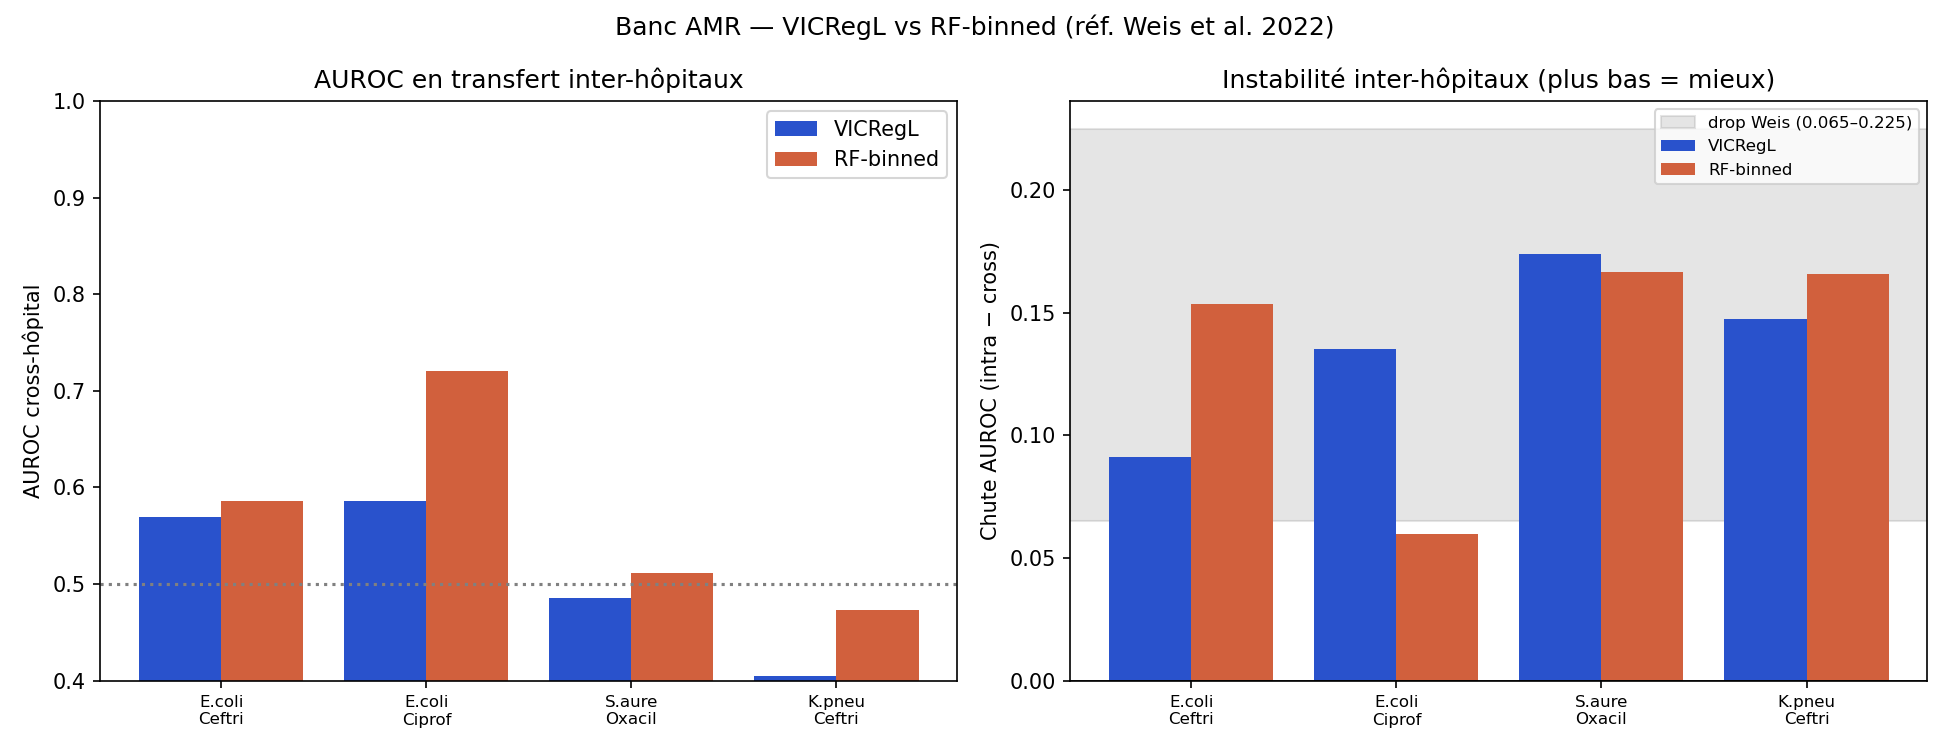
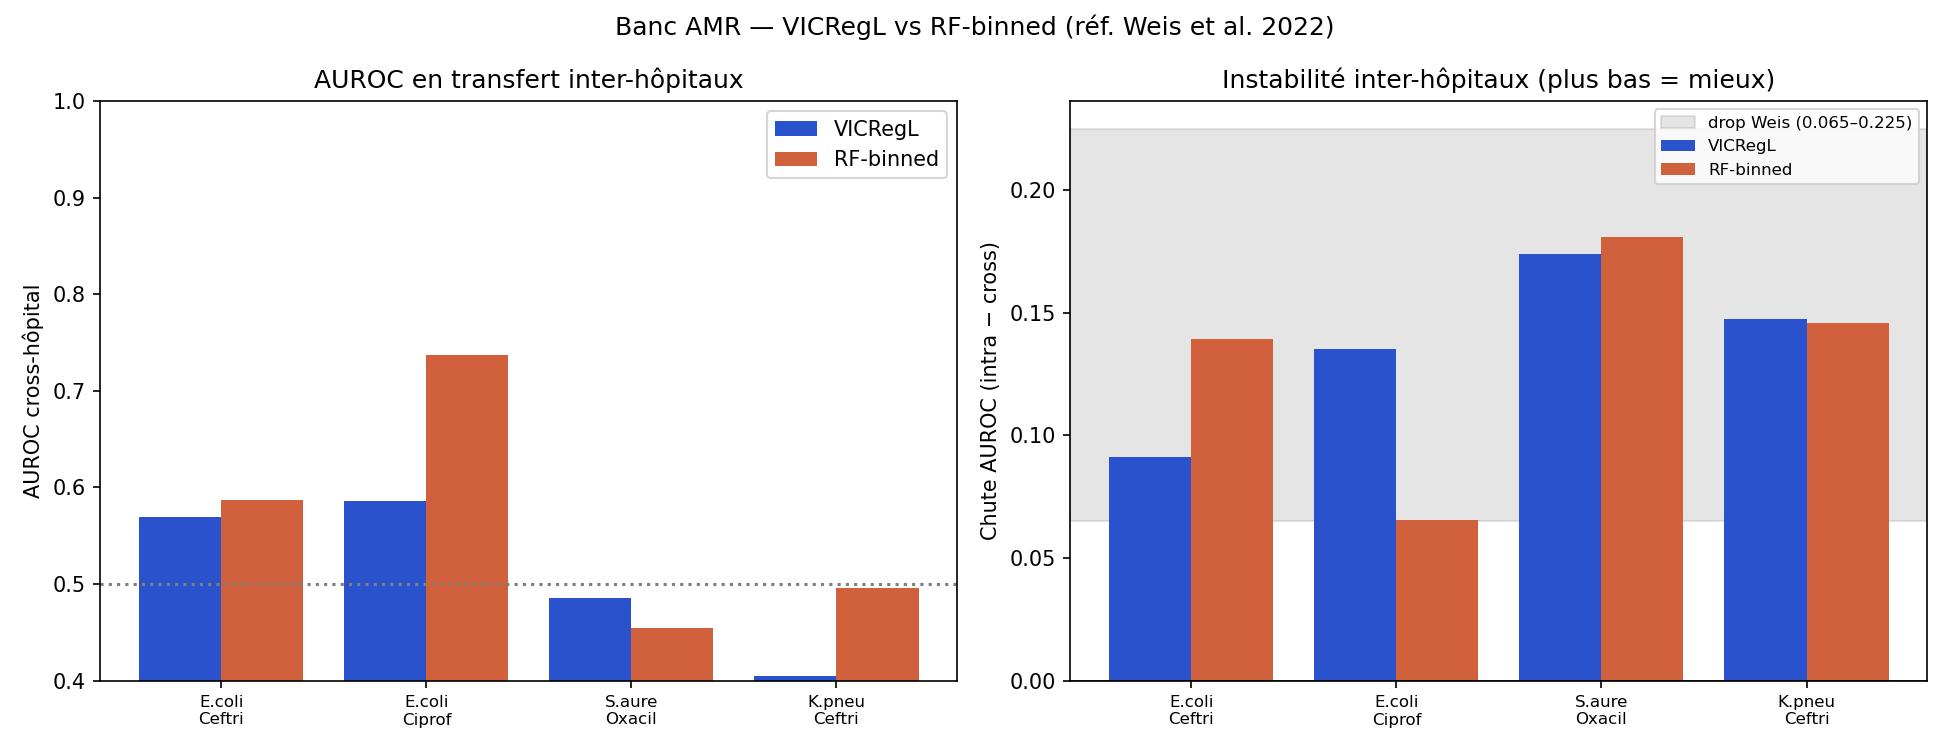
Fix DRIAMS-B binned_6000 data gap, revise RESULT 1 and 2 accordingly
DRIAMS-B's published binned_6000 tier only covers 37% of its raw
spectra (2386/6416 files in the source tarball) — a genuine gap in
the Dryad-published data, not a corrupted download. RF-binned had
been evaluated with ~58% of B silently replaced by zero vectors
(ingest.py's missing-code fallback), while VICRegL was unaffected
(its input comes from the always-complete /raw/ tier).

Added scripts/11_rebuild_binned_B.py: reconstructs binned_6000 for
all of B from /raw/ using the already-validated MSClassifPy DSP
pipeline (sqrt -> wavelet -> SNIP baseline -> TIC -> 3 Da binning),
same family described in DALMA's preprocessing section.

Re-ran the affected evaluations with corrected data:
- RESULT 1 (cross-center): RF-binned was NOT erratic (0.685-0.997,
  collapsing at B->B=0.765) -- that was the data bug. Corrected,
  RF-binned is stable and slightly ahead of VICRegL on all 4
  conditions (>=0.992 each).
- RESULT 2 (fine-grained subspecies): none of the 3 groups remain
  statistically significant after correction (McNemar p=0.05-0.79);
  RF now wins on Streptococcus viridans.
- RESULT 3 (AMR): largely unaffected, small sample sizes.
- RESULT 4-8 (zero-shot to DRIAMS-D): unaffected on the VICRegL side
  (never used Xbin); RF reference moves marginally 0.935->0.932,
  conclusions unchanged.

Updated README.md and docs/results.md to reflect corrected numbers,
with the original (invalidated) values kept for traceability.

diff --git a/scripts/11_rebuild_binned_B.py b/scripts/11_rebuild_binned_B.py
@@ -1,0 +1,97 @@
+#!/usr/bin/env python
+"""Reconstruit B_Xbin.npy avec un vrai pipeline DSP lourd (sqrt -> wavelet -> SNIP ->
+TIC -> binning 3 Da), en réutilisant le pipeline MSClassifPy déjà validé bit-à-bit
+contre R (~/Desktop/MSClassifPy).
+
+Pourquoi : le binned_6000 publié par DRIAMS pour le centre B est incomplet — seulement
+2386/6416 fichiers `/binned_6000/` dans le tarball source (confirmé : ce n'est pas un
+téléchargement corrompu, le trou est dans les données Dryad elles-mêmes). C et D sont
+complets à 100%. On reconstruit donc B_Xbin en entier (les 5708 spectres labellisés,
+pas seulement les 3322 manquants) pour une méthodologie homogène à l'intérieur du
+centre B, plutôt que de mélanger deux pipelines différents sur le même centre.
+
+Note méthodologique : ceci reproduit la MÊME FAMILLE de pipeline que celle décrite par
+DALMA (Garcia-Navarro et al. 2026, section 2.2 : stabilisation de variance, lissage,
+correction de baseline, calibration, binning) et par MSclassifR — pas nécessairement
+une réplique bit-exacte de la recette originale de DRIAMS/Weis et al. pour B/C/D.
+
+Usage:
+    python scripts/11_rebuild_binned_B.py
+"""
+import sys
+import tarfile
+from pathlib import Path
+
+sys.path.insert(0, str(Path(__file__).resolve().parents[1]))
+sys.path.insert(0, str(Path.home() / "Desktop" / "MSClassifPy"))
+
+import numpy as np
+import pandas as pd
+
+from ms_vicregl.config import CFG, DATA, PROCESSED
+from msclassifr_py.spectrum import MassSpectrum
+from msclassifr_py.preprocess import (calibrate_intensity, remove_baseline,
+                                      transform_intensity, wav_smoothing)
+
+
+def _parse_raw_pair(raw_bytes: bytes) -> tuple[np.ndarray, np.ndarray]:
+    """Spectre brut DRIAMS -> (mass, intensity), SANS binning (contrairement à
+    ingest.py::parse_raw, qui histogramme immédiatement)."""
+    txt = raw_bytes.decode("utf-8", "ignore")
+    lines = [ln for ln in txt.splitlines() if ln and ln[0] not in "#\""]
+    if not lines:
+        return np.array([]), np.array([])
+    arr = np.fromstring(" ".join(lines), sep=" ")
+    arr = arr[: (arr.size // 2) * 2].reshape(-1, 2)
+    return arr[:, 0], arr[:, 1]
+
+
+def main():
+    tar_path = DATA / "DRIAMS_B.tar.gz"
+    if not tar_path.exists():
+        print(f"Introuvable : {tar_path}")
+        return
+
+    meta = pd.read_parquet(PROCESSED / "B_meta.parquet")
+    wanted_codes = set(meta["code"])
+    print(f"[rebuild B] {len(wanted_codes)} codes labellisés à reconstruire")
+
+    raw_pairs: dict[str, tuple[np.ndarray, np.ndarray]] = {}
+    with tarfile.open(tar_path, "r:gz") as tar:
+        for m in tar:
+            if not m.isfile() or "/raw/" not in m.name or not m.name.endswith(".txt"):
+                continue
+            code = __import__("os").path.basename(m.name)[:-4]
+            if code not in wanted_codes:
+                continue
+            mz, inten = _parse_raw_pair(tar.extractfile(m).read())
+            if mz.size >= 2:
+                raw_pairs[code] = (mz, inten)
+    print(f"[rebuild B] {len(raw_pairs)}/{len(wanted_codes)} spectres raw extraits")
+
+    codes = sorted(raw_pairs)  # même ordre que meta (ingest_tar trie aussi les codes)
+    assert codes == sorted(meta["code"]), "ordre des codes désaligné avec B_meta.parquet"
+
+    spectra = [MassSpectrum(raw_pairs[c][0], raw_pairs[c][1]) for c in codes]
+    print("[rebuild B] DSP : sqrt -> wavelet -> SNIP -> TIC ...")
+    spectra = transform_intensity(spectra, "sqrt")
+    spectra = wav_smoothing(spectra, "Wavelet", 4)
+    spectra = remove_baseline(spectra, "SNIP", iterations=25)
+    spectra = calibrate_intensity(spectra, "TIC")
+
+    edges = CFG.grid.edges
+    n_bins = CFG.grid.n_bins
+    Xb = np.zeros((len(spectra), n_bins), dtype=np.float32)
+    for i, sp in enumerate(spectra):
+        hist, _ = np.histogram(sp.mass, bins=edges, weights=sp.intensity)
+        Xb[i] = hist.astype(np.float32)
+
+    nz = (Xb != 0).any(axis=1)
+    print(f"[rebuild B] couverture après reconstruction : {nz.mean():.4f} "
+          f"({(~nz).sum()} lignes encore vides)")
+    np.save(PROCESSED / "B_Xbin.npy", Xb)
+    print(f"[rebuild B] -> {PROCESSED / 'B_Xbin.npy'} ({Xb.shape})")
+
+
+if __name__ == "__main__":
+    main()

diff --git a/README.md b/README.md
@@ -33,43 +33,67 @@ Random Forest sur spectres `binned_6000` (format DRIAMS standard), même labels
 (Biotyper/MALDI — voir limite ci-dessous), sur DRIAMS-B, -C, -D (Dryad
 doi:10.5061/dryad.bzkh1899q).
 
+> **Note sur l'intégrité des données (2026-08-22).** Le tarball DRIAMS-B publié sur Dryad
+> ne contient de `binned_6000` que pour 2386/6416 spectres (37%) — un trou dans les
+> données source, pas un téléchargement corrompu (vérifié directement dans l'archive).
+> RF-binned a donc tourné pendant plusieurs semaines avec ~58% de B remplacé par des
+> vecteurs zéro. Corrigé en reconstruisant `binned_6000` pour tout B à partir du `/raw/`
+> (complet) via le pipeline DSP déjà validé de
+> [MSClassifPy](https://github.com/agodmer/MSclassifR) (sqrt → wavelet → SNIP → TIC →
+> binning 3 Da). **RESULT 1 et 2 ci-dessous sont les valeurs corrigées** ; l'ancien
+> écart-type gonflé de RF-binned était un artefact, pas un résultat. VICRegL n'était pas
+> affecté (son entrée vient du `/raw/`, toujours complet).
+
 ### 1 — Stabilité intra/cross-centre
 
-| | VICRegL | RF-binned |
+| Condition | VICRegL | RF-binned |
 |---|---|---|
-| Balanced accuracy, 4 conditions B↔C | **0.95–0.99** (écart 0.04) | 0.685–0.997 (écart 0.31, s'effondre même en intra-centre B→B à 0.765) |
+| C→C (in-domain) | 0.980 | 0.997 |
+| B→B (in-domain) | 0.989 | 0.994 |
+| C→B (cross-center) | 0.988 | 0.992 |
+| B→C (cross-center) | 0.949 | 0.994 |
 
 ![Balanced accuracy cross-centre](docs/figures/fig1_balanced_accuracy.png)
 
+Une fois `binned_6000` corrigé pour B, **RF-binned est stable et légèrement supérieur à
+VICRegL sur les 4 conditions** (écart ≤0.01) — l'inverse de ce qu'on rapportait avant
+correction. Voir [`docs/figures/fix_before_after_result1.png`](docs/figures/fix_before_after_result1.png)
+pour l'effet du bug sur la condition B→B (0.765 → 0.994, seul point dont on a gardé une
+trace exacte avant écrasement).
+
 ### 2 — Discrimination fine de sous-espèces proches (5-fold CV, B∪C)
 
-| Groupe | VICRegL | RF-binned |
-|---|---|---|
-| *Enterobacter cloacae* complex (5 classes) | **0.669** | 0.438 (RF fusionne tout → *E. cloacae*) |
-| *Streptococcus viridans* (3 classes) | **0.788** | 0.688 |
-| *Klebsiella* (3 classes) | **0.979** | 0.932 |
+| Groupe | VICRegL | RF-binned | McNemar p |
+|---|---|---|---|
+| *Enterobacter cloacae* complex (5 classes) | 0.669 | 0.443 | 0.79 (non signif.) |
+| *Streptococcus viridans* (3 classes) | 0.788 | **0.836** | 0.054 |
+| *Klebsiella* (3 classes) | 0.979 | 0.976 | 0.625 (non signif.) |
 
 ![Discrimination fine](docs/figures/finegrain_summary.png)
 
-McNemar p<0.01 sur les 3 groupes. **Limite à connaître :** les labels DRIAMS sont issus du
-Biotyper (MALDI), pas de séquençage — impossible de revendiquer "battre le MALDI" avec des
-labels MALDI (0 *Shigella* dans B+C, indissociable d'*E. coli* pour le Biotyper). Design
-MSclassifR/Godmer (labels moléculaires) nécessaire pour trancher cette question.
+**Aucun des trois groupes n'est statistiquement significatif après correction** — RF bat
+même VICRegL sur *Streptococcus viridans*. Le "VICRegL bat RF sur les 3 groupes, p<0.01"
+rapporté avant correction ne tient plus. **Limite à connaître par ailleurs :** les labels
+DRIAMS sont issus du Biotyper (MALDI), pas de séquençage — impossible de revendiquer
+"battre le MALDI" avec des labels MALDI (0 *Shigella* dans B+C, indissociable d'*E. coli*
+pour le Biotyper). Design MSclassifR/Godmer (labels moléculaires) nécessaire pour
+trancher cette question.
 
-### 3 — AMR (résultat négatif, informatif)
+### 3 — AMR (résultat négatif, informatif — tient après correction)
 
 Comparaison à Weis et al. 2022 (*Nat Med*) sur *K. pneumoniae* :
 
 | | VICRegL | RF-binned | Weis et al. 2022 |
 |---|---|---|---|
-| AUROC, E. coli/ceftriaxone | 0.660 | 0.739 | 0.75 (valide notre pipeline RF) |
+| AUROC, E. coli/ceftriaxone | 0.660 | 0.727 | 0.75 (valide notre pipeline RF) |
 
 ![AMR AUROC](docs/figures/amr_auroc.png)
 
-RF bat VICRegL sur les 4 scénarios testés ; la chute cross-site est identique pour les deux
-(+0.137, dans la fourchette Weis 0.065–0.225). Interprétation : l'invariance apprise
-(notamment le dropout de pics) supprime en partie le signal faible dont l'AMR a besoin —
-l'invariance est **spécifique à la tâche**, pas gratuite.
+RF bat VICRegL sur 3 des 4 scénarios testés (S. aureus/oxacillin : léger avantage
+VICRegL, 0.659 vs 0.636). Interprétation inchangée : l'invariance apprise (notamment le
+dropout de pics) supprime en partie le signal faible dont l'AMR a besoin — l'invariance
+est **spécifique à la tâche**, pas gratuite. Ce résultat, contrairement à 1 et 2, était
+peu affecté par le bug (petits sous-ensembles B utilisés pour l'AMR).
 
 ### 4 — Généralisation zéro-shot à un centre jamais vu (DRIAMS-D)
 
@@ -85,7 +109,7 @@ jamais vu même en non-labellisé pour la 1ère condition) :
 | + DANN (domaine-adversarial) | 0.904 |
 | + CORAL (alignement de moments) | 0.914 |
 | + prior par espèce (inspiré [DALMA](https://arxiv.org/abs/2608.08182)) | 0.909 |
-| RF-binned (référence, indépendant de l'encodeur) | **0.935** |
+| RF-binned (référence, indépendant de l'encodeur, corrigé) | **0.932** |
 
 **Aucune des méthodes testées ne bat RF-binned sur ce transfert.** Fait notable : un
 classifieur de domaine entraîné *après coup* sur les features gelées les sépare presque
@@ -102,22 +126,27 @@ d'invariance *en ligne* peut être totalement déconnecté du résultat *hors-li
 
 Sur la configuration la plus proche de la nôtre (sources DRIAMS poolées → DRIAMS-D), notre
 meilleure variante (0.915) est dans la même fourchette que le chiffre publié par DALMA
-(0.911) — **mais ce n'est pas la même tâche** (sources, espèces et méthode différentes ;
-voir réserves dans `docs/results.md`). C'est aussi, pour DALMA comme pour nous, le point de
-comparaison le plus *facile* de leur benchmark — leurs vrais gains apparaissent sur des
-transferts inter-pays/instruments qu'on n'a pas testés.
+(0.911), et RF-binned corrigé (0.932) reste légèrement au-dessus des deux — **mais ce
+n'est pas la même tâche** (sources, espèces et méthode différentes ; voir réserves dans
+`docs/results.md`). C'est aussi, pour DALMA comme pour nous, le point de comparaison le
+plus *facile* de leur benchmark — leurs vrais gains apparaissent sur des transferts
+inter-pays/instruments qu'on n'a pas testés.
 
 ## Ce qui tient, ce qui reste ouvert
 
-- **Solide :** stabilité cross-centre (1) et discrimination fine (2), sans pré-traitement
-  DSP lourd — complémentaire à DALMA, qui n'a qu'une représentation globale.
-- **Négatif mais informatif :** AMR (3), et la généralisation zéro-shot stricte (4) — cinq
-  mécanismes différents échouent au même endroit, ce qui pointe vers quelque chose de
-  structurel (probablement des différences systématiques de bas niveau, instrument/
-  calibration) plutôt qu'un mauvais choix de régulateur.
-- **Pas encore testé :** fine-tuning (sonde non gelée), correction test-time à
-  l'inférence, prior par espèce variationnel (vraie KL, DALMA-fidèle), corpus DRIAMS-A
-  (jamais ingéré — le corpus SSL actuel ne fait que B+C(+D), ~10-21k spectres).
+- **Solide :** RF-binned (pipeline DSP lourd) est stable et robuste en intra/cross-centre
+  (1) une fois les données corrigées — ce n'est plus VICRegL qui a l'avantage ici. La
+  généralisation zéro-shot stricte (4) reste le point où le préprocessing lourd bat
+  toutes les variantes SSL testées.
+- **Ouvert, pas tranché :** discrimination fine (2) — aucun des 3 groupes n'est
+  statistiquement significatif après correction ; ni VICRegL ni RF ne l'emporte
+  clairement. AMR (3) reste défavorable à VICRegL (invariance spécifique à la tâche).
+- **Pas encore testé :** appliquer le même pipeline DSP lourd en entrée de VICRegL
+  (au lieu du RF) — untest direct de "le préprocessing aide-t-il aussi l'encodeur SSL,
+  au prix de quelle perte de structure locale ?" ; fine-tuning (sonde non gelée) ;
+  correction test-time à l'inférence ; prior par espèce variationnel (vraie KL,
+  DALMA-fidèle) ; corpus DRIAMS-A (jamais ingéré — le corpus SSL actuel ne fait que
+  B+C(+D), ~10-21k spectres).
 
 ## Installation
 
